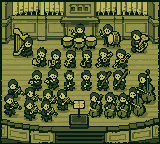
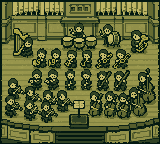
Orchestra: drop the whole-figure sway, put the motion in the bows
Translating a musician as a unit read as the chair sliding along with
them, so the figures now stay exactly where the reference put them and
the bowing carries the scene:

- no more per-player x/y lean; only the 11 bow sprites move
- a stroke uses most of the bow (up to +/-2px of travel on a 5-8px bow;
  past that the bow leaves the player's arm behind) and the bow speed
  stays roughly constant, so a longer stroke is a slower one (~0.5-1 Hz)
- string players rest only 2-9s between notes instead of 3.5-23s, so
  4-8 of the 11 bows are in motion at any moment (was ~3)
- winds rest longer and the string voices are ~15% quieter, keeping the
  denser bowing from crowding the wash

?pose=bow now freezes the bows alone at full stroke.

Claude-Session: https://claude.ai/code/session_01Y2TYi6LRHAxKHcQWvBNzYM

Changed region(s): [[0.0, 0.3056, 0.9688, 0.8611], [0.4375, 0.1389, 0.5625, 0.2778], [0.5938, 0.3333, 0.7188, 0.4722]]

diff --git a/orchestra.html b/orchestra.html
@@ -334,10 +334,10 @@ const sprites = createSprites(document.getElementById('partsG'), ORCHESTRA_PARTS
 // A = its A, w = how many extra times A goes into the pool (the whole hall
 // is chasing the same A), str = bows an actual string, so it can double-stop
 const NOTES = {
-  violin: { p: [196.00, 293.66, 440.00, 659.25], A: 440.00, w: 3, g: 0.030, bright: 6.0, str: 1 },
-  viola:  { p: [130.81, 196.00, 293.66, 440.00], A: 440.00, w: 3, g: 0.030, bright: 5.5, str: 1 },
-  cello:  { p: [65.41, 98.00, 146.83, 220.00],   A: 220.00, w: 3, g: 0.034, bright: 7.0, str: 1 },
-  bass:   { p: [41.20, 55.00, 73.42, 98.00],     A: 55.00,  w: 2, g: 0.036, bright: 8.0, str: 1 },
+  violin: { p: [196.00, 293.66, 440.00, 659.25], A: 440.00, w: 3, g: 0.026, bright: 6.0, str: 1 },
+  viola:  { p: [130.81, 196.00, 293.66, 440.00], A: 440.00, w: 3, g: 0.026, bright: 5.5, str: 1 },
+  cello:  { p: [65.41, 98.00, 146.83, 220.00],   A: 220.00, w: 3, g: 0.030, bright: 7.0, str: 1 },
+  bass:   { p: [41.20, 55.00, 73.42, 98.00],     A: 55.00,  w: 2, g: 0.032, bright: 8.0, str: 1 },
   wind:   { p: [293.66, 440.00, 587.33],         A: 440.00, w: 4, g: 0.022, bright: 4.0 },
   brass:  { p: [55.00, 73.42, 110.00],           A: 110.00, w: 2, g: 0.026, bright: 5.0 },
   harp:   { p: [261.63, 293.66, 329.63, 392.00, 523.25], A: 440.00, w: 3, g: 0.030 },
@@ -401,13 +401,10 @@ const PLAYERS = ROSTER.map(([id, fam]) => {
     axis: bow ? bowAxis(ORCHESTRA_PARTS[id + '_bow'].states.base) : [1, 0],
     // stage position → stereo image (the hall seen from the audience)
     pan: Math.max(-0.8, Math.min(0.8, ((st.ox + st.w / 2) / 160 - 0.5) * 1.7)),
-    // idle sway: everyone breathes at their own rate
-    w1: 1.2 + rand() * 1.1, p1: rand() * 6.28,
-    w2: 0.8 + rand() * 0.9, p2: rand() * 6.28,
     // how often this one reaches for their strings — keeps the murmur
     // from falling into lockstep after a tutti
     eager: 0.5 + rand() * 1.2,
-    playing: false, next: rand() * 22, bowHz: 1, bowPh: 0,
+    playing: false, next: rand() * 22, bowHz: 1, bowPh: 0, bowAmp: 2,
   };
 });
 
@@ -419,14 +416,22 @@ const PLAYERS = ROSTER.map(([id, fam]) => {
 let tuttiUntil = 0, nextTutti = 55 + Math.random() * 70;
 let nextRefA = 3;
 
+// The bows are what the eye follows, so the string players keep coming
+// back to them; the winds sit out longer between notes.
 function restLen(pl) {
-  const base = pl.fam === 'timp' ? 25 : pl.fam === 'harp' ? 12 : 3.5;
-  return (base + Math.random() * (base + 16)) * pl.eager;
+  if (pl.fam === 'timp') return 25 + Math.random() * 41;
+  if (pl.fam === 'harp') return 12 + Math.random() * 24;
+  if (NOTES[pl.fam].str) return (2 + Math.random() * 7) * pl.eager;
+  return (8 + Math.random() * 26) * pl.eager;
 }
 
 function startNote(pl, t) {
   pl.playing = true;
-  pl.bowHz = 0.75 + Math.random() * 0.9;
+  // a tuning stroke uses most of the bow — up to ±2px of travel on a 5-8px
+  // bow, past which the bow leaves the player's arm behind — and the bow
+  // speed stays roughly constant, so a longer stroke is a slower one
+  pl.bowAmp = 1.5 + Math.random() * 0.85;
+  pl.bowHz = (7 + Math.random() * 6) / (6.283 * pl.bowAmp);
   pl.bowPh = Math.random() * 6.28;
   const N = NOTES[pl.fam];
   const dur = pl.fam === 'timp' ? 1.2
@@ -464,18 +469,15 @@ function step(t) {
     }
   }
 
+  // Only the bows move. Translating a whole figure reads as the chair
+  // sliding too, so the musicians stay exactly where the reference put
+  // them and the bowing carries the scene.
   for (const pl of PLAYERS) {
-    // amplitudes sit just above 0.5 so rounding yields an occasional 1px
-    // lean rather than a constant jitter; playing leans a little more
-    const amp = pl.playing ? 1 : 0.85;
-    const dx = Math.round(amp * 0.62 * Math.sin(t * pl.w2 + pl.p2));
-    const dy = Math.round(amp * 0.72 * Math.sin(t * pl.w1 + pl.p1));
-    pl.s.moveTo(pl.hx + dx, pl.hy + dy);
-    if (pl.bow) {
-      let s = 0;
-      if (pl.playing) s = Math.round(1.6 * Math.sin(t * 6.283 * pl.bowHz + pl.bowPh));
-      pl.bow.moveTo(pl.bhx + dx + s * pl.axis[0], pl.bhy + dy + s * pl.axis[1]);
-    }
+    if (!pl.bow) continue;
+    const s = pl.playing
+      ? Math.round(pl.bowAmp * Math.sin(t * 6.283 * pl.bowHz + pl.bowPh))
+      : 0;
+    pl.bow.moveTo(pl.bhx + s * pl.axis[0], pl.bhy + s * pl.axis[1]);
   }
 }
 
@@ -488,8 +490,7 @@ function pose(kind) {
       pl.s.moveTo(pl.hx - 5, pl.hy - 12);
       if (pl.bow) pl.bow.moveTo(pl.bhx - 5, pl.bhy - 12);
     } else if (kind === 'bow') {
-      pl.s.moveTo(pl.hx, pl.hy + 1);
-      if (pl.bow) pl.bow.moveTo(pl.bhx + 2 * pl.axis[0], pl.bhy + 1 + 2 * pl.axis[1]);
+      if (pl.bow) pl.bow.moveTo(pl.bhx + 2 * pl.axis[0], pl.bhy + 2 * pl.axis[1]);
     } else {
       pl.s.moveHome();
       if (pl.bow) pl.bow.moveHome();

diff --git a/refs/orchestra/spec.md b/refs/orchestra/spec.md
@@ -35,23 +35,29 @@
 
 | パーツ | 状態 | 動き方 |
 |---|---|---|
-| `harpist` / `timpanist` / `bassdrum` / `tubist` | — | 後列。ゆっくり±1px揺れる |
-| `wind1`〜`wind6`, `mid1`〜`mid6` | — | 木管・金管。ゆっくり±1px揺れる。吹いている間は揺れ幅が増える |
-| `vln1`〜`vln7`, `cello1`〜`cello4`, `bassist` | — | 弦楽器。揺れ + 演奏中は弓が動く |
-| `<name>_bow`（11本） | — | 弓。演奏中は弓の軸方向に ±1〜2px スライド（ボウイング） |
+| `<name>_bow`（11本） | — | 弓。演奏中は弓の軸方向に最大±2px スライド（ボウイング） |
+| 奏者 28 体 | — | **動かさない**（`?pose=lift` の切り出し確認用にだけ移動する） |
 
-- 揺れは奏者ごとに周期・位相がばらばら（2.5〜5秒）。整数ピクセル単位
+- **奏者本体の全体揺れはしない。** 図形を丸ごと平行移動させると椅子ごと
+  ずれて見えて不自然なので、奏者は base.png の位置に据え置き、
+  動きは弓だけに持たせる（＝弓が主役）
 - 弓の軸方向はランタイムで各弓スプライトの主成分から求める
+- 1ストロークは弓の長さの大半を使う（5〜8px の弓に対して最大±2px。
+  それ以上動かすと弓が腕から離れて見える）。弓速はほぼ一定なので、
+  ストロークが長いほど周期は遅い（0.5〜1.0Hz 程度）
+- 弦楽器奏者は休みを短くして常に 4〜8 本の弓が動いている状態を保つ
 
 ## 動き（パーツ以外）
 
-- **チューニングの波**: 常時 4〜8 人ほどが同時に鳴らしている。奏者ごとに
-  「弾く 2.5〜7秒 → 休む 3〜15秒」を繰り返す。40〜80秒に一度、
-  ほぼ全員が同時に A を出す「トゥッティ」の山が来て、また散っていく
+- **チューニングの波**: 常時 6〜9 人ほどが同時に鳴らしている。奏者ごとに
+  「弾く 2.5〜7秒 → 休む」を繰り返す（弦は 2〜9秒、木管は 8〜34秒）。
+  40〜80秒に一度、ほぼ全員が同時に A を出す「トゥッティ」の山が来て、
+  また散っていく
 - **基準 A**: 開始直後とその後 30〜60 秒おきに、オーボエ役が長く澄んだ
   A4（440Hz）を出す。そのとき他の奏者は少し多めに反応する
 - 音と絵は同じステートマシンで駆動する（鳴っている奏者＝弓が動いている奏者）
-- デバッグ: `?pose=bow`（全弦楽器を弓の振り切り位置で固定）、
+- デバッグ: `?at=<秒>`（その時刻まで早送りして静止）、
+  `?pose=bow`（全弦楽器を弓の振り切り位置で固定）、
   `?pose=lift`（全奏者を上へ大きくずらして背景の抜けを確認）、
   `?pose=home`（全員静止）、`?a=1`（基準Aを即発音）
 

diff --git a/CLAUDE.md b/CLAUDE.md
@@ -219,18 +219,20 @@ is the artwork restored to its native resolution (16 colours).
   figure mask, so each player gets a tight silhouette; bows are detected as
   the long thin bright streak inside a player and erased from the body
   image, so a moving bow reveals the torso underneath
-- Motion is all sprite translation in whole pixels: every player breathes /
-  leans ±1px on their own 2.7–8 s period, and a playing string player's bow
-  slides ±1–2px **along its own principal axis** (computed at load time from
-  the bow sprite's pixels)
+- **Only the bows move.** Translating a whole figure reads as the chair
+  sliding with it, so the musicians stay exactly where the reference put
+  them; a playing string player's bow slides up to ±2px **along its own
+  principal axis** (computed at load time from the bow sprite's pixels) at
+  a roughly constant bow speed, so a longer stroke is a slower one
 - One state machine drives both the sprites and the audio: a player is
-  "playing" ⇔ their bow is moving ⇔ a note is sounding. ~4–8 players sound
-  at once, swelling to ~20 when the oboe's reference A goes out
+  "playing" ⇔ their bow is moving ⇔ a note is sounding. String players rest
+  only briefly, so 4–8 of the 11 bows are in motion at any moment; ~6–9
+  players sound at once, swelling to ~15–20 when the reference A goes out
 - Debug URL params: `?at=<seconds>` fast-forwards the tuning session and
   holds that frame, `?pose=bow` freezes bows at full stroke, `?pose=lift`
   shifts every musician up-left to expose the background behind them,
   `?pose=home` stands everyone still, `?a=1` sounds the reference A at once
-- `prefers-reduced-motion` holds the whole stage at its reference pose
+- `prefers-reduced-motion` holds every bow at its reference position
 
 #### Audio System
 
